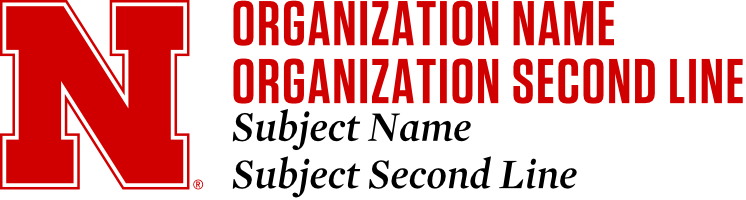
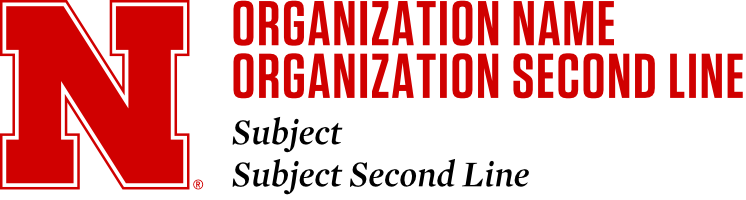
New lockup style and adjust 2-2 style

Changed region(s): [[0.3083, 0.24, 1.0, 0.99], [0.9558, 0.36, 1.0, 0.42], [0.9249, 0.33, 0.9558, 0.36]]

diff --git a/src/Views/new_lockup.php b/src/Views/new_lockup.php
@@ -111,6 +111,16 @@
                 <div class="bp2-wdn-grid-set-halves">
                     <div class="wdn-col">
                         <label>
+                            <input type="radio" name="type" value="acronym_subject_2_1" id="type-acronym-subject-2-1" <?php if ($context->lockup->style == 'acronym_subject_2_1') echo 'checked="checked"'; ?>>
+                            <img class="horiz height-38" src="/images/no_horiz_style.png">
+                            <img class="vert" style="display: none;" src="/images/acronym_subject_2-1_vert_example.png">
+                        </label><br>
+                        <label for="type-acronym-subject-2-1">
+                            Casual/embroidery option (Vertical Styles only).
+                        </label><br><br>
+                    </div>
+                    <div class="wdn-col">
+                        <label>
                             <input type="radio" name="type" value="extension" id="type-extension" <?php if ($context->lockup->style == 'extension') echo 'checked="checked"'; ?>>
                             <img class="horiz height-38" src="/images/extension_example.png">
                             <img class="vert" style="display: none;" src="/images/extension_vert_example.png">
@@ -170,6 +180,16 @@
                         </div>
                     </div>
                     <input type="text" name="acronym" id="acronym" value="<?php echo $context->lockup->acronym; ?>">
+                    <br>
+                </div>
+                <div id="acronym-second-line-field" style="display: none;">
+                    <label for="acronym-second-line">Acronym Second Line</label>
+                    <div class="tooltip wdn-icon-info italic hang-right">
+                        <div>
+                            10 characters max
+                        </div>
+                    </div>
+                    <input type="text" name="acronym_second_line" id="acronym-second-line" value="<?php echo $context->lockup->acronym_second_line; ?>">
                     <br>
                 </div>
                 <div id="acronym-subject-field" style="display: none;">
@@ -251,6 +271,7 @@ require(['jquery'], function ($) {
                 $('#subject-field').hide();
                 $('#subject-second-line-field').hide();
                 $('#acronym-field').hide();
+                $('#acronym-second-line-field').hide();
                 $('#acronym-subject-field').hide();
                 $('#extension-county-field').hide();
             } else if ($('#type-org-two-line').is(':checked')) {
@@ -259,6 +280,7 @@ require(['jquery'], function ($) {
                 $('#subject-field').hide();
                 $('#subject-second-line-field').hide();
                 $('#acronym-field').hide();
+                $('#acronym-second-line-field').hide();
                 $('#acronym-subject-field').hide();
                 $('#extension-county-field').hide();
             } else if ($('#type-org-subject').is(':checked')) {
@@ -267,6 +289,7 @@ require(['jquery'], function ($) {
                 $('#subject-field').show();
                 $('#subject-second-line-field').hide();
                 $('#acronym-field').hide();
+                $('#acronym-second-line-field').hide();
                 $('#acronym-subject-field').hide();
                 $('#extension-county-field').hide();
             } else if ($('#type-org-subject-1-2').is(':checked')) {
@@ -275,6 +298,7 @@ require(['jquery'], function ($) {
                 $('#subject-field').show();
                 $('#subject-second-line-field').show();
                 $('#acronym-field').hide();
+                $('#acronym-second-line-field').hide();
                 $('#acronym-subject-field').hide();
                 $('#extension-county-field').hide();
             } else if ($('#type-org-subject-2-1').is(':checked')) {
@@ -283,6 +307,7 @@ require(['jquery'], function ($) {
                 $('#subject-field').show();
                 $('#subject-second-line-field').hide();
                 $('#acronym-field').hide();
+                $('#acronym-second-line-field').hide();
                 $('#acronym-subject-field').hide();
                 $('#extension-county-field').hide();
             } else if ($('#type-org-subject-2-2').is(':checked')) {
@@ -291,6 +316,7 @@ require(['jquery'], function ($) {
                 $('#subject-field').show();
                 $('#subject-second-line-field').show();
                 $('#acronym-field').hide();
+                $('#acronym-second-line-field').hide();
                 $('#acronym-subject-field').hide();
                 $('#extension-county-field').hide();
             } else if ($('#type-acronym').is(':checked')) {
@@ -299,6 +325,7 @@ require(['jquery'], function ($) {
                 $('#subject-field').hide();
                 $('#subject-second-line-field').hide();
                 $('#acronym-field').show();
+                $('#acronym-second-line-field').hide();
                 $('#acronym-subject-field').hide();
                 $('#extension-county-field').hide();
             } else if ($('#type-acronym-subject').is(':checked')) {
@@ -307,6 +334,16 @@ require(['jquery'], function ($) {
                 $('#subject-field').hide();
                 $('#subject-second-line-field').hide();
                 $('#acronym-field').show();
+                $('#acronym-second-line-field').hide();
+                $('#acronym-subject-field').show();
+                $('#extension-county-field').hide();
+            } else if ($('#type-acronym-subject-2-1').is(':checked')) {
+                $('#organization-field').hide();
+                $('#organization-second-line-field').hide();
+                $('#subject-field').hide();
+                $('#subject-second-line-field').hide();
+                $('#acronym-field').show();
+                $('#acronym-second-line-field').show();
                 $('#acronym-subject-field').show();
                 $('#extension-county-field').hide();
             } else if ($('#type-extension').is(':checked')) {
@@ -315,6 +352,7 @@ require(['jquery'], function ($) {
                 $('#subject-field').hide();
                 $('#subject-second-line-field').hide();
                 $('#acronym-field').hide();
+                $('#acronym-second-line-field').hide();
                 $('#acronym-subject-field').hide();
                 $('#extension-county-field').show();
             } 

diff --git a/src/Controllers/LockupsController.php b/src/Controllers/LockupsController.php
@@ -7,7 +7,7 @@ use \SvgGenerator as SVG;
 
 class LockupsController extends Controller {
 
-	const LOCKUP_VERSION = '1.1';
+	const LOCKUP_VERSION = '1.2';
 
 	public static function createAction() {
 		\Core::$breadcrumbs[] = array('text' => 'Create Lockup');
@@ -40,7 +40,7 @@ class LockupsController extends Controller {
 		}
 
 		# this lockup must not be generated
-		if ($lockup->status == Lockup::GENERATED) {
+		if ($lockup->isGenerated()) {
 			self::flashNotice(parent::NOTICE_LEVEL_ERROR, 'Cannot Edit', 'Sorry, this lockup has been generated and cannot be edited. Please create a new lockup.');
 			\Core::redirect('/lockups/manage/');
 		}
@@ -62,6 +62,7 @@ class LockupsController extends Controller {
 		$lockup->subject = 					$post_params['subject'];
 		$lockup->subject_second_line = 		$post_params['subject_second_line'];
 		$lockup->acronym = 					strtoupper($post_params['acronym']);
+		$lockup->acronym_second_line = 		strtoupper($post_params['acronym_second_line']);
 		$lockup->acronym_subject = 			strtoupper($post_params['acronym_subject']);
 		$lockup->extension_county = 		$post_params['extension_county'];
 		$lockup->style = 					$post_params['type'];
@@ -78,6 +79,7 @@ class LockupsController extends Controller {
 			'subject' => 					$post_params['subject'],
 			'subject_second_line' => 		$post_params['subject_second_line'],
 			'acronym' => 					strtoupper($post_params['acronym']),
+			'acronym_second_line' =>		strtoupper($post_params['acronym_second_line']),
 			'acronym_subject' => 			strtoupper($post_params['acronym_subject']),
 			'extension_county' =>	 		$post_params['extension_county'],
 			'style' => 						$post_params['type'],
@@ -117,7 +119,7 @@ class LockupsController extends Controller {
 		}
 
 		# this lockup must not be generated
-		if ($lockup_model->status == Lockup::GENERATED) {
+		if ($lockup_model->isGenerated()) {
 			self::flashNotice(parent::NOTICE_LEVEL_ERROR, 'Cannot Edit', 'Sorry, this lockup has been generated and cannot be edited. Please create a new lockup.');
 			\Core::redirect('/lockups/manage/');
 		}
@@ -146,6 +148,7 @@ class LockupsController extends Controller {
 			'subject' => 					$post_params['subject'],
 			'subject_second_line' => 		$post_params['subject_second_line'],
 			'acronym' => 					strtoupper($post_params['acronym']),
+			'acronym_second_line' => 		strtoupper($post_params['acronym_second_line']),
 			'acronym_subject' => 			strtoupper($post_params['acronym_subject']),
 			'extension_county' =>	 		$post_params['extension_county'],
 			'style' => 						$post_params['type'],
@@ -180,7 +183,7 @@ class LockupsController extends Controller {
 			\Core::notFound('That lockup could not be found.');
 		}
 
-		if ($lockup->status == Lockup::GENERATED) {
+		if ($lockup->isGenerated()) {
 			\Core::redirect($lockup->getDownloadURL());
 		}
 
@@ -318,7 +321,7 @@ class LockupsController extends Controller {
 		}
 
 		# need to check that this is not already generated
-		if ($lockup_model->status == Lockup::GENERATED) {
+		if ($lockup_model->isGenerated()) {
 			\Core::notFound('That lockup has already been generated.');
 		}
 

diff --git a/src/Models/Lockup.php b/src/Models/Lockup.php
@@ -48,7 +48,7 @@ class Lockup extends \ActiveRecord\Model {
 
 	public function getPNGDownloadURL() {
 		foreach ($this->files as $file) {
-			if ($file->type == 'png' && $file->color == 'RGB' && $file->orientation == 'horiz') {
+			if ($file->type == 'png' && $file->color == 'RGB' && $file->orientation == 'vert') {
 				return $file->downloadLink();
 			}
 		}
@@ -164,6 +164,7 @@ class Lockup extends \ActiveRecord\Model {
 		$lockup->subject = 					$this->subject;
 		$lockup->subject_second_line = 		$this->subject_second_line;
 		$lockup->acronym = 					$this->acronym;
+		$lockup->acronym_second_line = 		$this->acronym_second_line;
 		$lockup->acronym_subject = 			$this->acronym_subject;
 		$lockup->extension_county = 		$this->extension_county;
 		$lockup->style = 					$this->style;
@@ -173,32 +174,34 @@ class Lockup extends \ActiveRecord\Model {
 		$orients = array('horiz', 'vert');
 		$styles = array('RGB', 'pms186cp', '4c', 'blk');
 		foreach ($orients as $orient) {
-			foreach ($styles as $style) {
-				$svg_file = SVG::createLockup($this->style, $lockup, $orient, $style, FALSE);
-				# write this to a temp file
-				$filename = $this->getStartingSVGPath();
+			if (!($lockup->style == 'acronym_subject_2_1' && $orient == 'horiz')) { // no horizontal for this style
+				foreach ($styles as $style) {
+					$svg_file = SVG::createLockup($this->style, $lockup, $orient, $style, FALSE);
+					# write this to a temp file
+					$filename = $this->getStartingSVGPath();
 
-				$file = fopen($filename, 'w');
-				fwrite($file, $svg_file->svg_text);
-				fclose($file);
+					$file = fopen($filename, 'w');
+					fwrite($file, $svg_file->svg_text);
+					fclose($file);
 
-				$prefix = 'N' . substr($orient,0,1) . '_';
-				$suffix = '_' . $style . '_';
+					$prefix = 'N' . substr($orient,0,1) . '_';
+					$suffix = '_' . $style . '_';
 
-				$this->generateFiles($prefix, $suffix, $orient, $style, FALSE, $svg_file->height, $svg_file->width);
+					$this->generateFiles($prefix, $suffix, $orient, $style, FALSE, $svg_file->height, $svg_file->width);
 
-				$svg_file = SVG::createLockup($this->style, $lockup, $orient, $style, TRUE);
-				# write this to a temp file
-				$filename = $this->getStartingSVGPath();
+					$svg_file = SVG::createLockup($this->style, $lockup, $orient, $style, TRUE);
+					# write this to a temp file
+					$filename = $this->getStartingSVGPath();
 
-				$file = fopen($filename, 'w');
-				fwrite($file, $svg_file->svg_text);
-				fclose($file);
+					$file = fopen($filename, 'w');
+					fwrite($file, $svg_file->svg_text);
+					fclose($file);
 
-				$prefix = 'N' . substr($orient,0,1) . '_';
-				$suffix = '_' . $style . '_rev_';
+					$prefix = 'N' . substr($orient,0,1) . '_';
+					$suffix = '_' . $style . '_rev_';
 
-				$this->generateFiles($prefix, $suffix, $orient, $style, TRUE, $svg_file->height, $svg_file->width);
+					$this->generateFiles($prefix, $suffix, $orient, $style, TRUE, $svg_file->height, $svg_file->width);
+				}
 			}
 		}
 

diff --git a/src/SvgGenerator.php b/src/SvgGenerator.php
@@ -219,17 +219,17 @@ class SvgGenerator {
 					$svg->addText($lockup->org_name, 44, -5.8);
 					$main_text_width = $svg->textDimensions($lockup->org_name)[0];
 
-					$svg->addText($lockup->org_second_line, 44, 5.2);
+					$svg->addText($lockup->org_second_line, 44, 4.2);
 					$third_width = $svg->textDimensions($lockup->org_second_line)[0];
 
 					$svg->setFontSVG(self::MERCURY);
 					$svg->setLetterSpacing(0);
-					$svg->setFontSize(8.125);
+					$svg->setFontSize(7);
 					$svg->setFontColor($secondary_text_color);
-					$svg->addText($lockup->subject, 44, 17);
+					$svg->addText($lockup->subject, 44, 19);
 					$secondary_text_width = $svg->textDimensions($lockup->subject)[0];
 
-					$svg->addText($lockup->subject_second_line, 44, 26);
+					$svg->addText($lockup->subject_second_line, 44, 27);
 					$fourth_width = $svg->textDimensions($lockup->subject_second_line)[0];
 
 					$svg->addAttribute('viewBox', "0 0 " . (max($main_text_width, $secondary_text_width, $third_width, $fourth_width) + 44) . " 38");
@@ -411,6 +411,20 @@ class SvgGenerator {
 					$text_width = $svg->textDimensions($lockup->acronym_subject)[0];
 					$svg->addText($lockup->acronym_subject, 100 - ($text_width / 2), 56.25);
 					break;
+				case 'acronym_subject_2_1':
+					$svg->setFontSVG(self::TUNGSTEN);
+					$svg->setFontSize(22);
+					$svg->setFontColor($main_text_color);
+					$text_width = $svg->textDimensions($lockup->acronym)[0];
+					$svg->addText($lockup->acronym, 100 - ($text_width / 2), 32);
+					$text_width = $svg->textDimensions($lockup->acronym_second_line)[0];
+					$svg->addText($lockup->acronym_second_line, 100 - ($text_width / 2), 52);
+
+					$svg->setFontSize(16.25);
+					$svg->setFontColor($secondary_text_color);
+					$text_width = $svg->textDimensions($lockup->acronym_subject)[0];
+					$svg->addText($lockup->acronym_subject, 100 - ($text_width / 2), 80);
+					break;
 				case 'extension':
 					$svg->setFontSVG(self::TUNGSTEN);
 					$svg->setFontSize(22);
@@ -426,7 +440,15 @@ class SvgGenerator {
 					break;
 			}
 
-			$height = $template == 'org_subject_2_2' ? 88 : 80;
+			$height = 80;
+			switch ($template) {
+				case 'org_subject_2_2':
+					$height = 88;
+					break;
+				case 'acronym_subject_2_1':
+					$height = 104;
+					break;
+			}
 
 			$svg->addAttribute('viewBox', "0 0 200 " . $height);
 			$svg_file->height = $height;

diff --git a/src/Views/preview_lockup.php b/src/Views/preview_lockup.php
@@ -3,7 +3,11 @@
 		<h3 class="page-title">Preview for "<?php echo $context->lockup->getName() ?>" Lockup</h3>
 		<div class="bp2-wdn-grid-set-halves wdn-center">
             <div class="wdn-col center">
-				<?php echo $context->lockup->preview_svg; ?>
+            	<?php if ($context->lockup->style != 'acronym_subject_2_1'): ?>
+					<?php echo $context->lockup->preview_svg; ?>
+				<?php else: ?>
+					No horizontal version of this lockup.
+				<?php endif; ?>
 			</div>
 			<div class="wdn-col center">
 				<?php echo $context->lockup->vert_preview_svg; ?>
@@ -66,7 +70,7 @@
 				<form method="POST" action="/lockups/generate/" id="generate" class="wdn-center">
 					<div><label>You have permission to generate this lockup. Click "Generate Files" below to begin.</label></div>
 					<input type="text" class="hidden" value="<?php echo $context->lockup->id ?>" name="id">
-					<button type="submit" class="wdn-button wdn-button-triad" id="submit-generate">Generate Files</button>
+					<button type="submit" class="wdn-button wdn-button-complement" id="submit-generate">Generate Files</button>
 					<div style="display: none;" id="going-message">
 						<img src="/images/spinner.svg" style="height: 16px;">
 						<label style="font-style: italic;">And off we go! This will take a little while. Please be patient, we'll redirect you when this is complete.</label>
